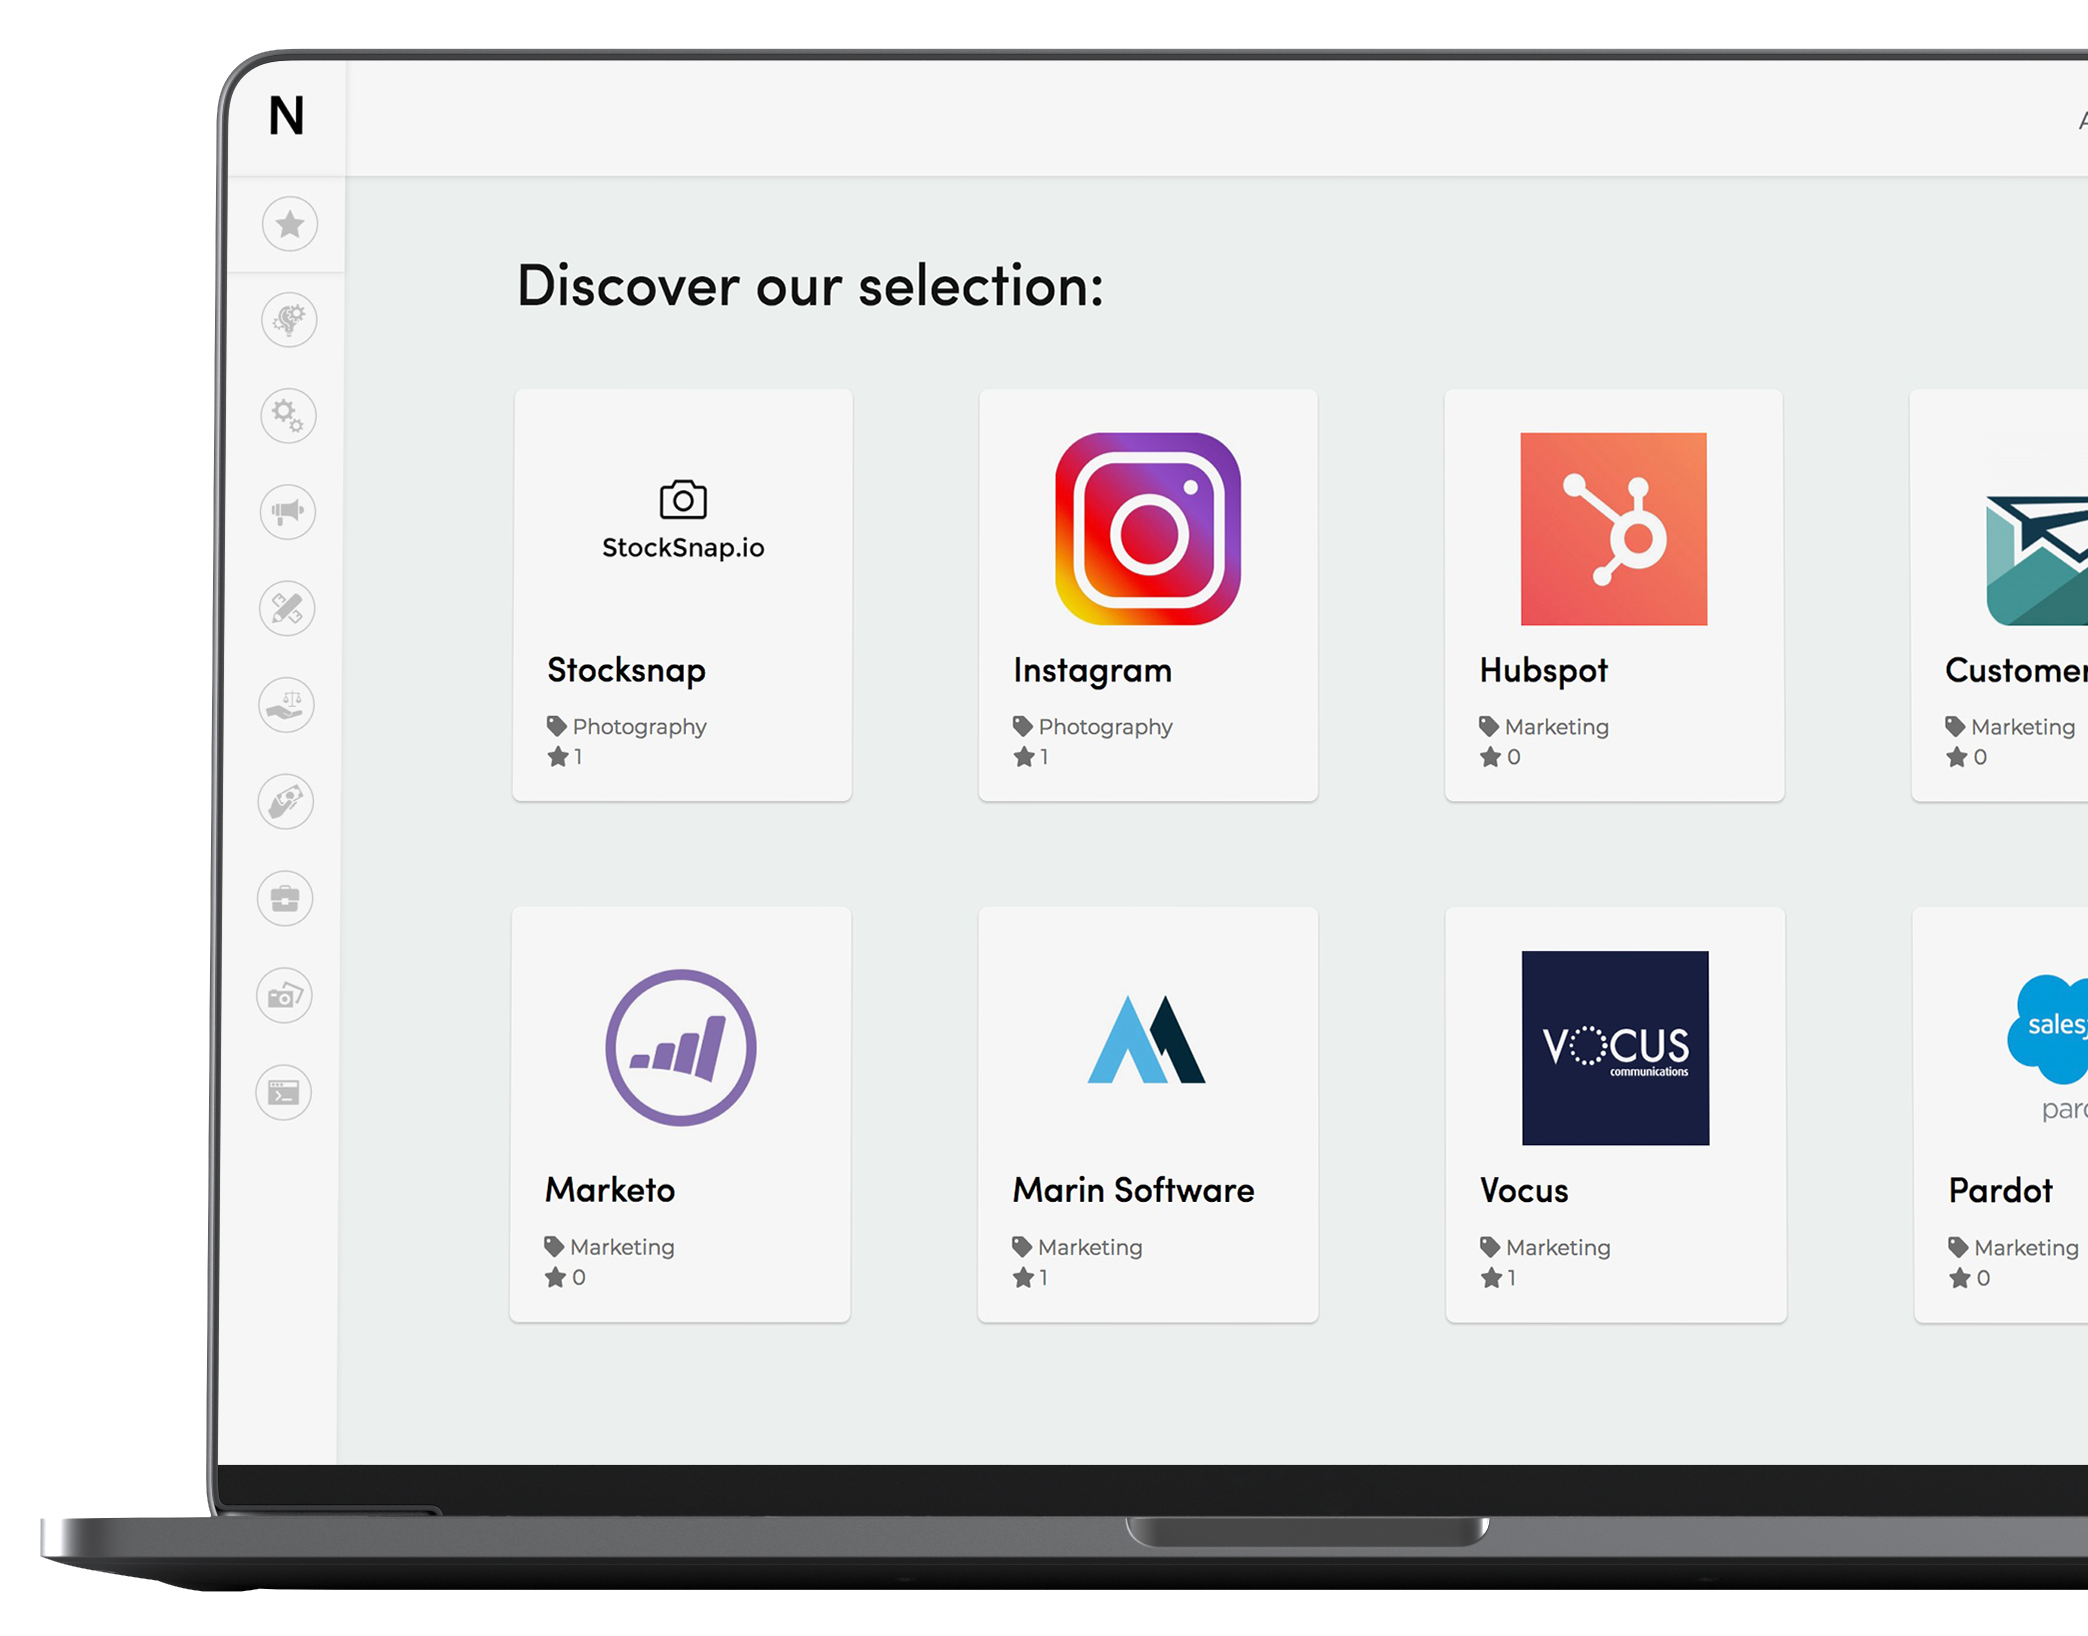
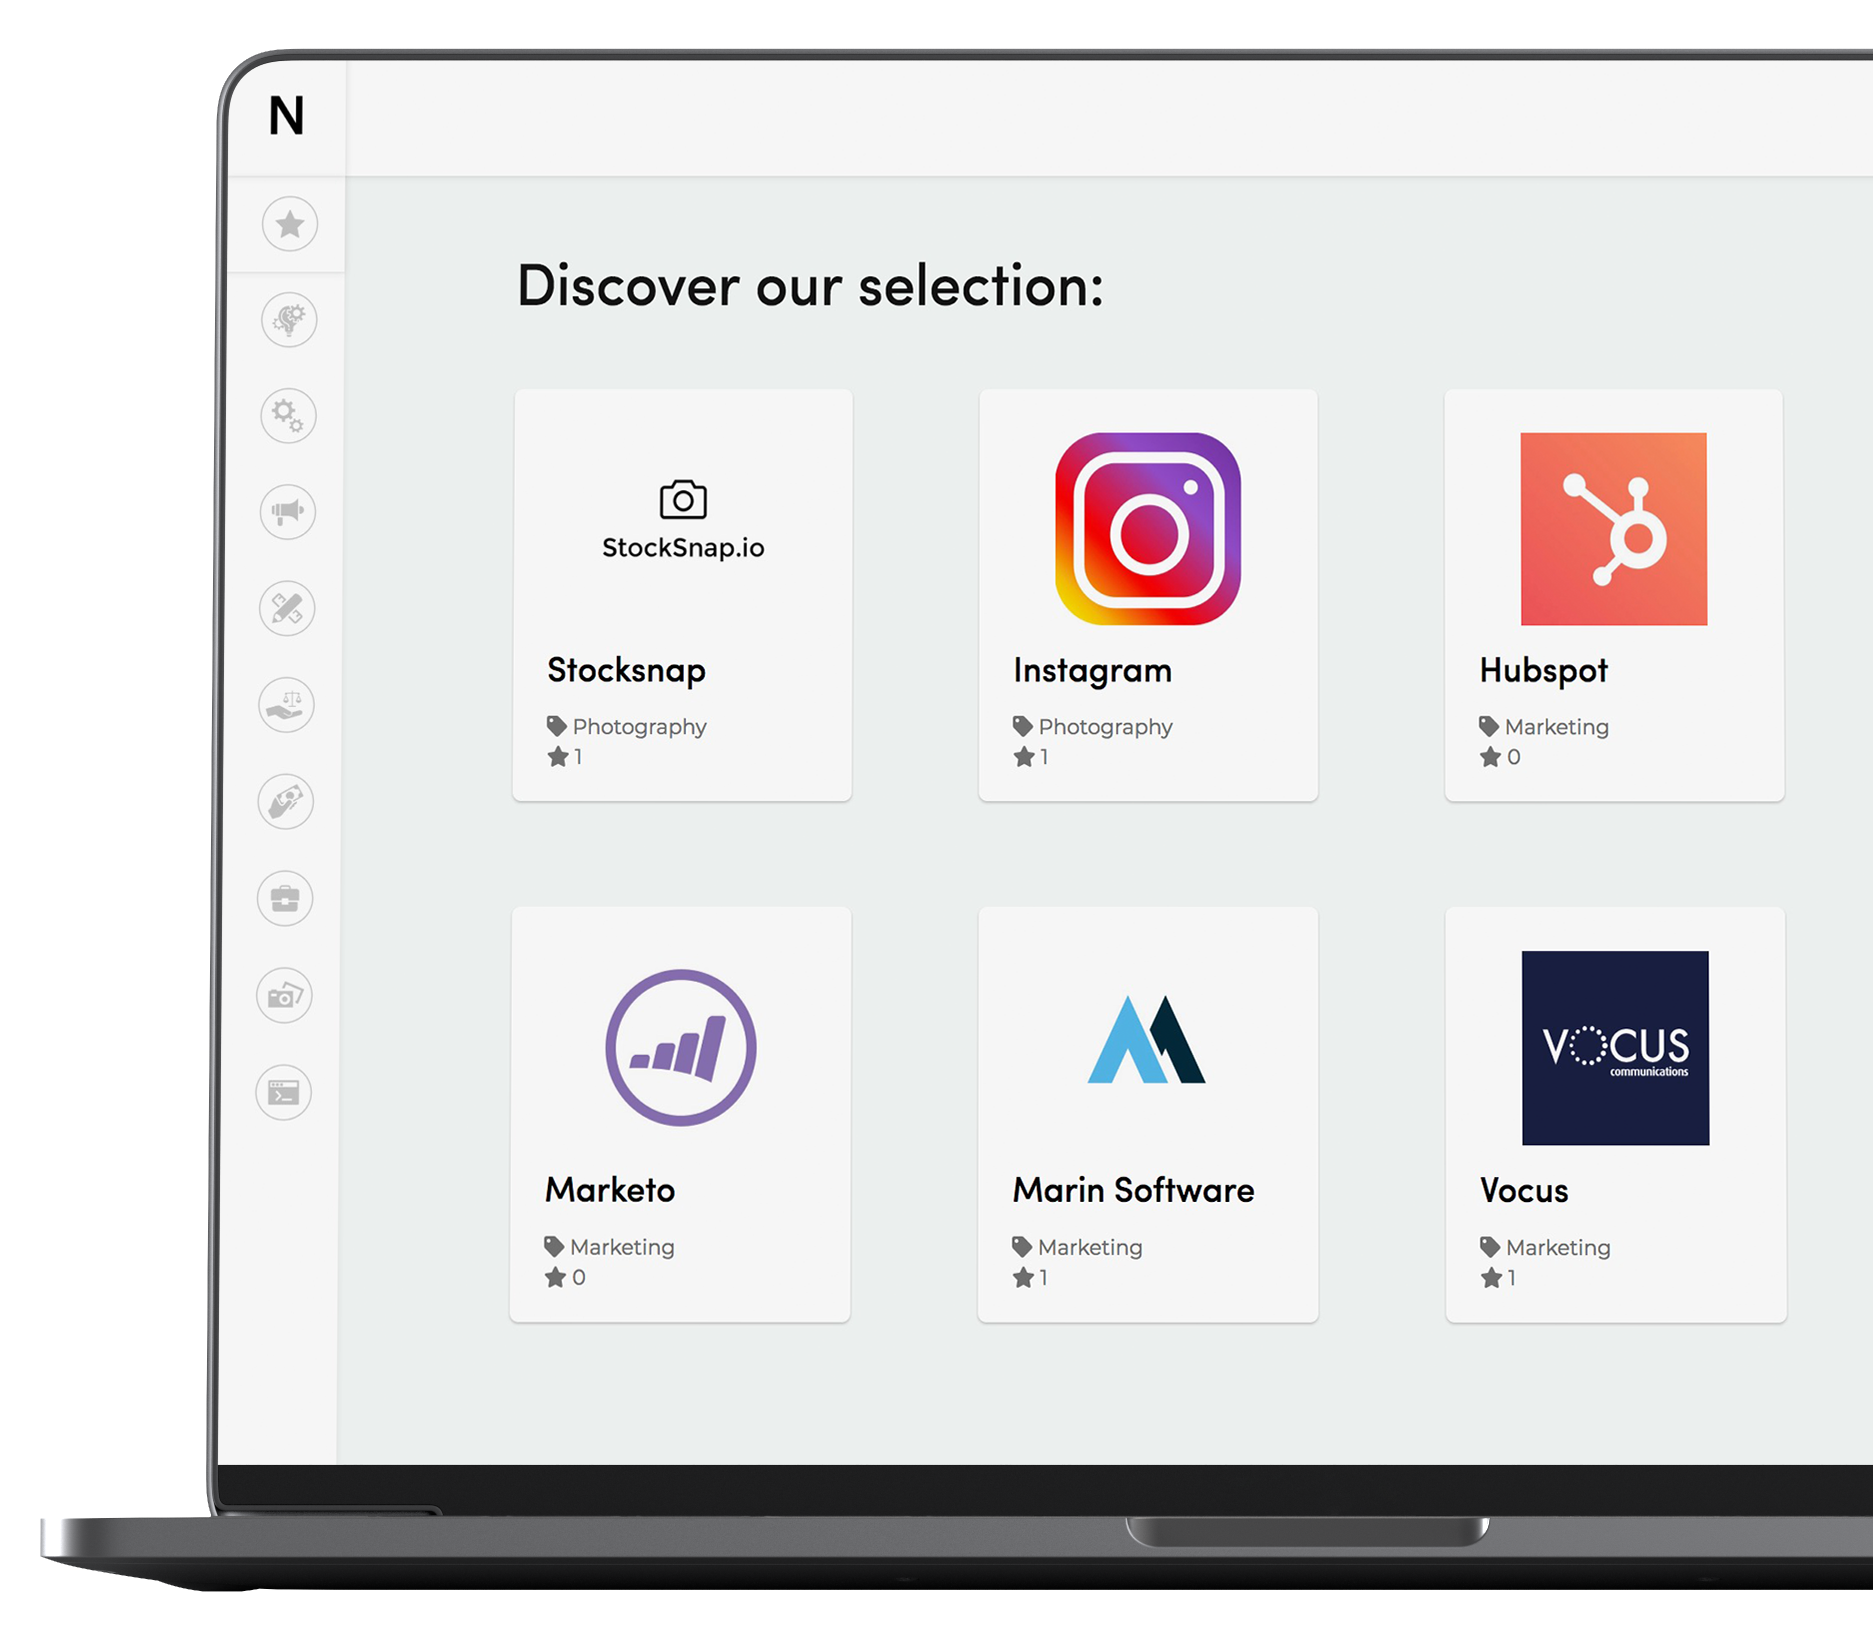
done

diff --git a/app/assets/stylesheets/pages/_apps-index.scss b/app/assets/stylesheets/pages/_apps-index.scss
@@ -114,8 +114,12 @@
 .bookmark-container {
   display: inline;
   position: relative;
+      right: 35px;
+    top: 10px;
 }
 
+
+// Here start the grid
 
 .features {
   padding-left: 21px;
@@ -128,13 +132,14 @@
     padding-right: 5px;
     margin-left: auto;
     margin-right: auto;
+    grid-column-gap: 30px;
     height: 100%;
     width: 100%;
+    grid-row-gap: 30px;
     grid-template-columns: 1fr 1fr;
     grid-template-rows: 1fr 1fr;
     min-height: 0;
-    min-width: 0;  /* NEW; needed for Firefox */
-
+    min-width: 0;
 }
 
 .box-features {
@@ -145,10 +150,22 @@
 }
 
 .box-features__main {
+  position: relative;
   background-repeat: no-repeat;
-  background-position: center;
-  background-size:cover;
+  background-position: left;
+  background-size: cover;
+  border-radius: 5px;
+  height: 100%;
+
+  .h4 {
+    position: absolute;
+    bottom: 10px;
+    left: 15px;
+    color: $gray;
+  }
 }
+
+
 
   .one-b {
     grid-row: 1 / span 2;

diff --git a/app/assets/stylesheets/config/_fonts.scss b/app/assets/stylesheets/config/_fonts.scss
@@ -39,13 +39,13 @@ $headers-font: "Sofia Pro", "Helvetica", "sans-serif";
 
 .h3 {
  font-size: 1.75em !important;
- letter-spacing: 5px;
+ letter-spacing: 2px;
  color: $dark-gray;
 }
 
 .h4 {
  font-size: 1.125em !important;
- letter-spacing: 5px;
+ letter-spacing: 2px;
  color: $dark-gray;
 }
 

diff --git a/app/assets/stylesheets/pages/_home.scss b/app/assets/stylesheets/pages/_home.scss
@@ -2,7 +2,6 @@
   // Position
   width: 100%;
   position: relative;
-  left: 70px;
 
   // Div action
   display: flex;
@@ -40,7 +39,7 @@
 #mock {
   height: 650px;
   position: relative;
-  left: 125px;
+  left: 135px;
   top: 20px;
 }
 
